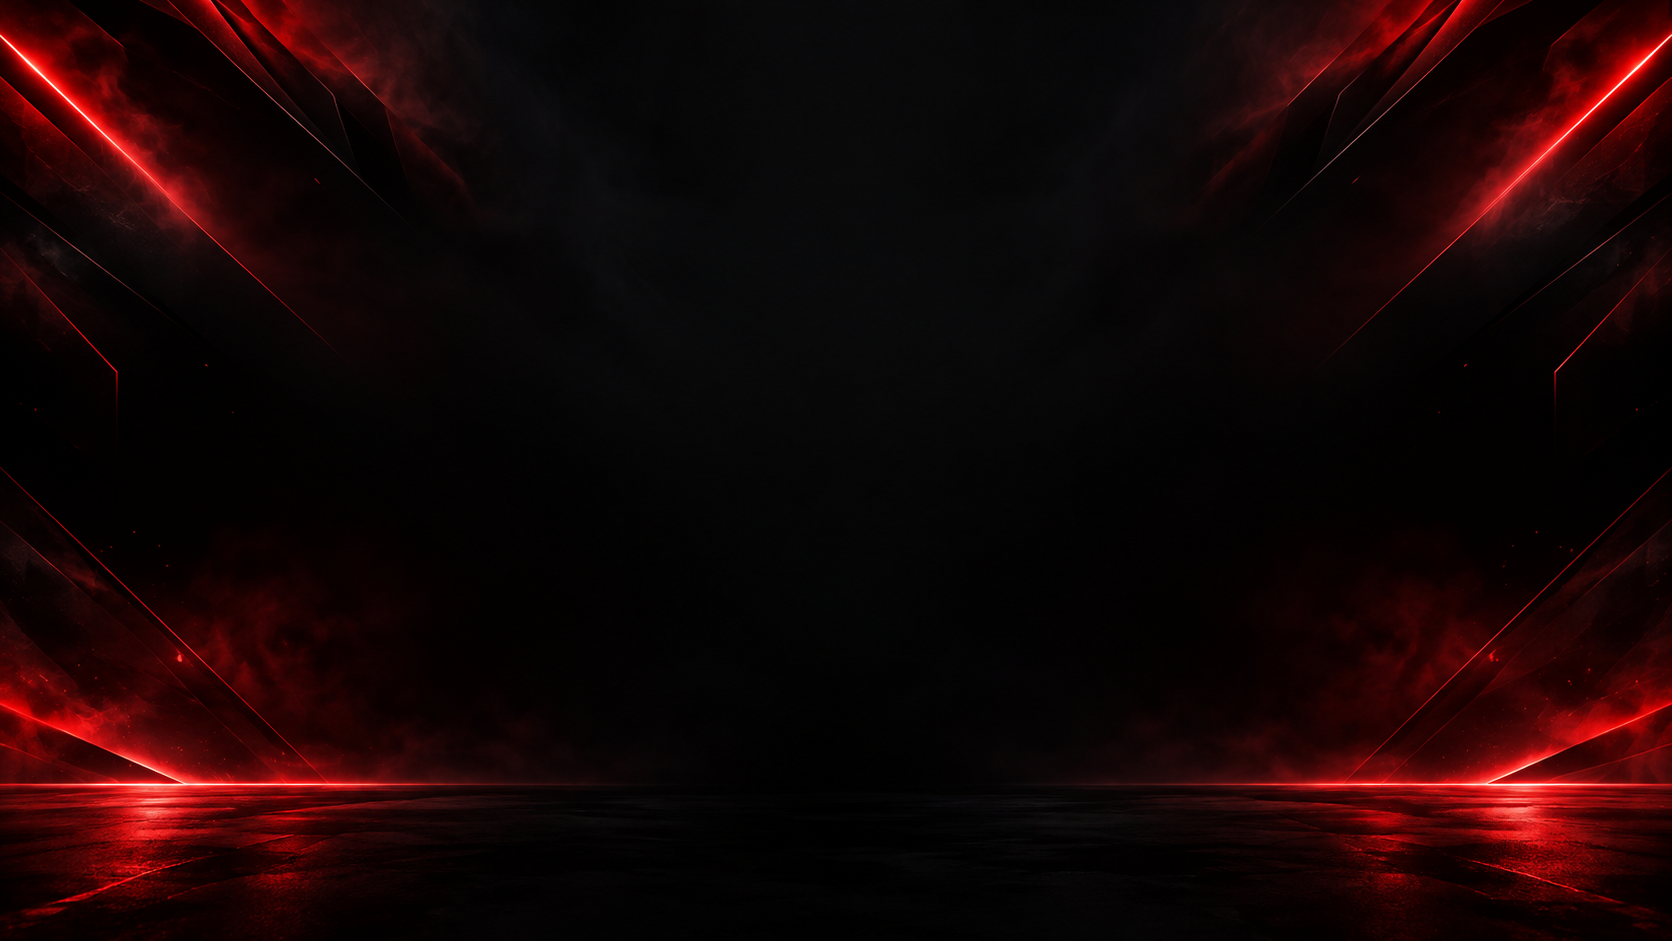
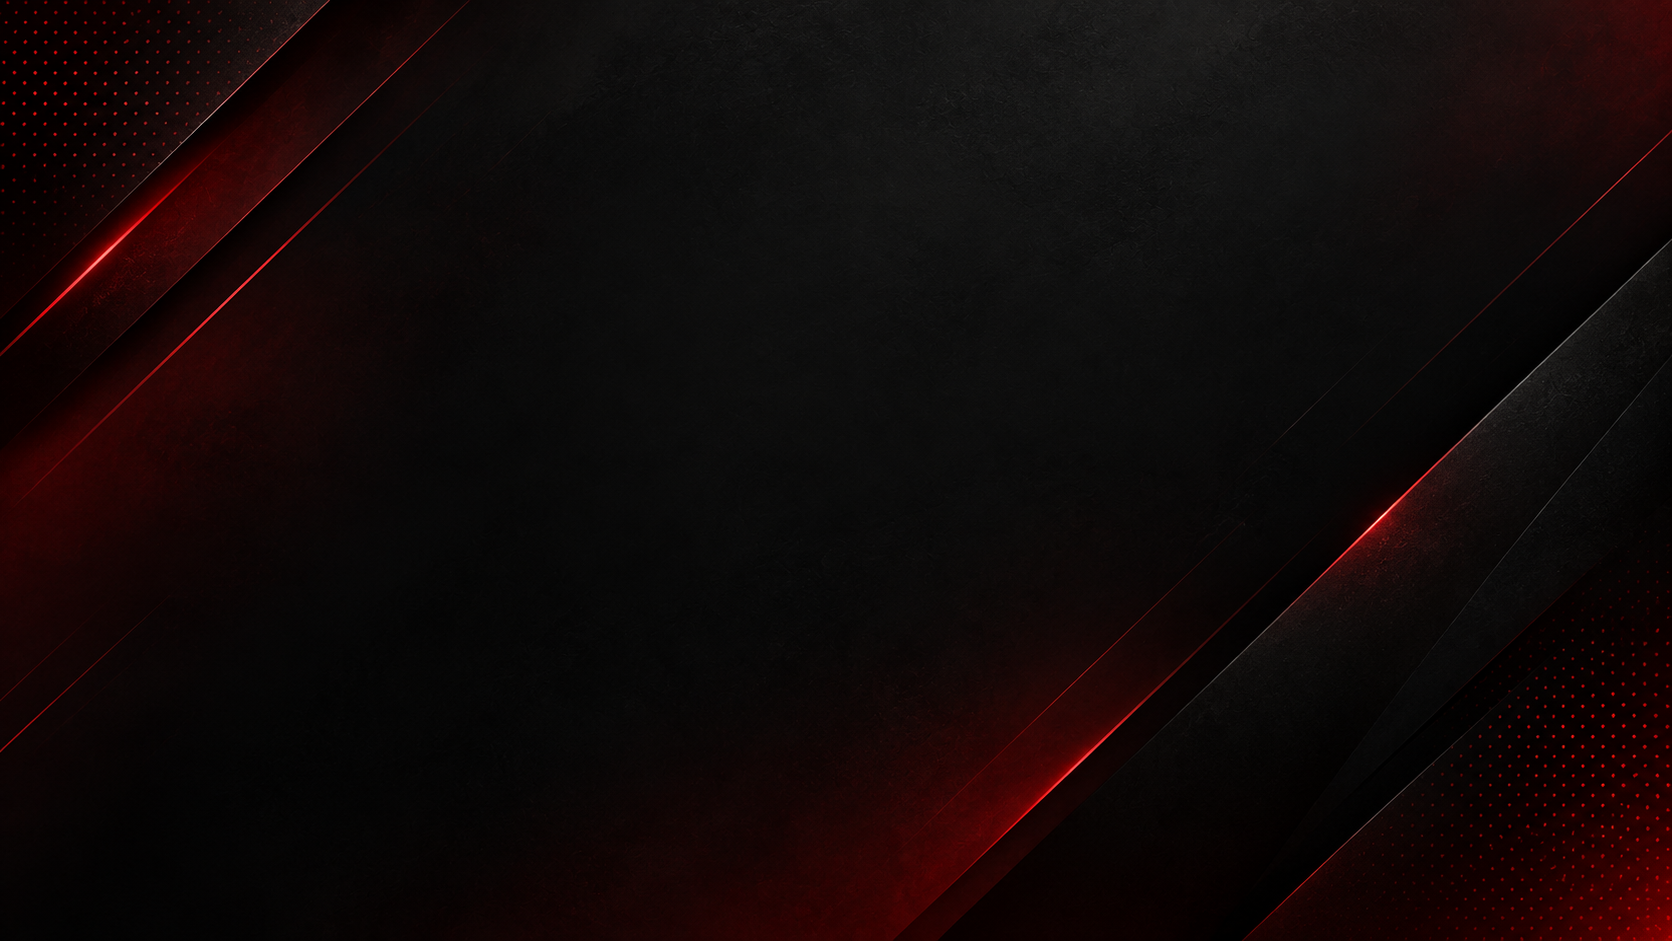
lcapro cs new ig

diff --git a/app/layout.js b/app/layout.js
@@ -30,9 +30,9 @@ export const metadata = {
   ],
 
   icons: {
-    icon: "/test.jpg",
-    shortcut: "/test.jpg",
-    apple: "/test.jpg",
+    icon: "/lcapropublic.png",
+    shortcut: "/lcapropublic.png",
+    apple: "/lcapropublic.png",
   },
 
   openGraph: {

diff --git a/app/page.js b/app/page.js
@@ -5502,4 +5502,3 @@ export default function Home() {
   );
 
 }
-
